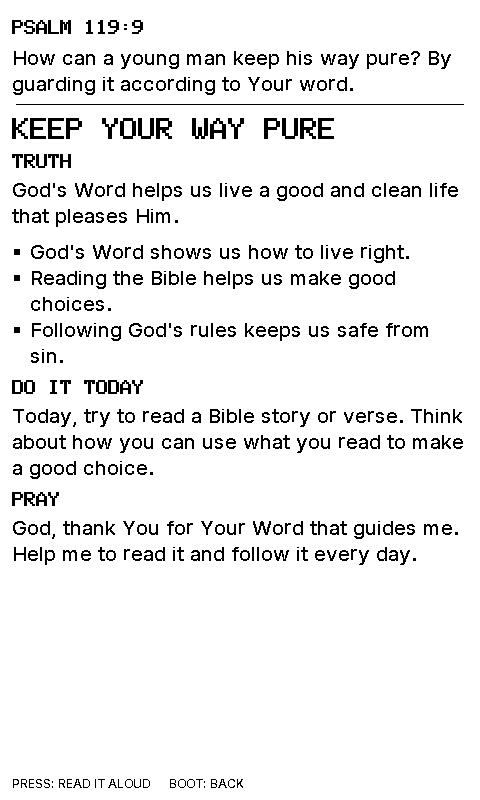
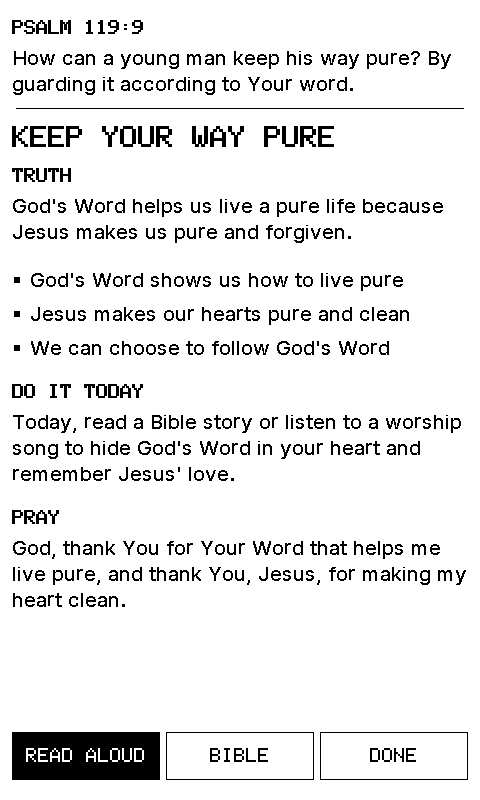
Devotional: roomier layout, gospel-centered brief, READ ALOUD / BIBLE / DONE buttons, launcher Bible row opens it
Also raises the model token limit (thinking tokens count) and logs unparsed replies.

diff --git a/firmware/RetroSports/App.cpp b/firmware/RetroSports/App.cpp
@@ -441,9 +441,11 @@ static bool fetchDevotional(const FetchRequest& req,Devotional& out,int& code){
  http.addHeader("Content-Type","application/json");http.addHeader("Authorization",String("Bearer ")+req.key);
  const std::string body=devotionalRequestBody(ref,verses[ref.verse-1],context);code=http.POST((uint8_t*)body.data(),body.size());
  if(code!=200){http.end();Serial.printf("DEVOTIONAL http=%d\n",code);return false;}
- JsonDocument d;const bool parsed=!deserializeJson(d,http.getString());http.end();
+ const String reply=http.getString();http.end();JsonDocument d;const bool parsed=!deserializeJson(d,reply);
  tm lt{};time_t now=time(nullptr);localtime_r(&now,&lt);
- return parsed&&parseDevotional(d,ref,verses[ref.verse-1],lt.tm_yday,out);
+ const bool ok=parsed&&parseDevotional(d,ref,verses[ref.verse-1],lt.tm_yday,out);
+ if(!ok)Serial.printf("DEVOTIONAL unparsed: %s\n",reply.substring(0,160).c_str());
+ return ok;
 }
 static void networkTask(void*){
  FetchRequest req;
@@ -762,7 +764,7 @@ static void goBack(){
  case Page::Home:goLauncher(LAUNCH_TAB0+ui.tab);break;
  case Page::Settings:goLauncher(LAUNCH_GEAR);break;
  case Page::BibleHome:goLauncher(LAUNCH_BIBLE);break;
- case Page::Devotional:ui.page=Page::BibleHome;ui.selected=2;break;
+ case Page::Devotional:goLauncher(LAUNCH_BIBLE);break;
  case Page::Weather:goLauncher(LAUNCH_WEATHER);break;
  case Page::Update:if(!updateBusy&&!restartAt){ui.page=Page::Settings;ui.selected=6;}break;
  case Page::Launcher:break;
@@ -819,7 +821,7 @@ static void keyAction(const Key& k){
    dirty=true;return;
   }
   else {int count=1;switch(ui.page){case Page::Home:count=HOME_ALL_ROW+(int)ui.recent.size();break;case Page::Games:{count=visibleGames(ui).size()+1;if(!ui.filter.empty()){int d=-1,c=-1;if(ui.standings.league==ui.league)teamGroups(ui.standings,ui.filter,d,c);count+=(d>=0||c>=0)?(d>=0?1:0)+(c>=0?1:0):1;}}break;
-   case Page::Standings:count=ui.standingsAlt>=0?2:1;break;case Page::BibleHome:count=4;break;case Page::Devotional:count=1;break;case Page::Update:count=1;break;case Page::Detail:count=3;break;case Page::Favorites:count=std::max(1,(int)ui.favorites.size());break;case Page::Settings:count=7;break;default:break;}ui.selected=(ui.selected+step+count)%count;
+   case Page::Standings:count=ui.standingsAlt>=0?2:1;break;case Page::BibleHome:count=4;break;case Page::Devotional:count=3;break;case Page::Update:count=1;break;case Page::Detail:count=3;break;case Page::Favorites:count=std::max(1,(int)ui.favorites.size());break;case Page::Settings:count=7;break;default:break;}ui.selected=(ui.selected+step+count)%count;
    if(ui.page==Page::Home&&ui.selected<HOME_TABS&&ui.selected!=ui.tab){ui.tab=ui.selected;buildRecent();} // landing on a tab switches the list (the gear does not)
    if(ui.page==Page::Games&&!ui.filter.empty()&&ui.selected==0)ui.selected=step>0?std::min(1,count-1):count-1; // team pages skip the phantom header slot
   }
@@ -859,12 +861,16 @@ static void keyAction(const Key& k){
  case Page::Wifi:if(!ui.ap)startAP();break;
  case Page::Launcher:
   if(ui.selected==LAUNCH_WEATHER){ui.page=Page::Weather;if(!ui.weather.valid)nextWeather=0;}
-  else if(ui.selected==LAUNCH_BIBLE){ui.page=Page::BibleHome;ui.selected=0;}
+  else if(ui.selected==LAUNCH_BIBLE){ui.page=Page::Devotional;ui.selected=0;if(devotionalStale())nextDevotional=0;} // the Bible row opens today's devotional; BIBLE on that page opens the reader home
   else if(ui.selected==LAUNCH_GEAR){ui.page=Page::Settings;ui.selected=0;}
   else{ui.tab=ui.selected-LAUNCH_TAB0;ui.listPage=0;goHome();if(ui.tab==0){if(!ui.recent.empty())ui.selected=HOME_ALL_ROW;}else ui.selected=HOME_NEXT;} // straight into the list
   break;
  case Page::BibleHome:if(ui.selected==0)openBible(BibleRef{});else if(ui.selected==1)openBible(ui.votd);else if(ui.selected==2){ui.page=Page::Devotional;ui.selected=0;if(devotionalStale())nextDevotional=0;}else{ui.bible.pick=ui.bible.book-1;ui.page=Page::BibleBooks;ui.selected=0;}break;
- case Page::Devotional:if(ui.devotional.valid&&!voiceKey.isEmpty()&&!audio::playing()){VoiceJob job{};snprintf(job.say,sizeof(job.say),"%s",devotionalSpeech(ui.devotional).c_str());snprintf(job.key,sizeof(job.key),"%s",voiceKey.c_str());if(xQueueSend(voiceQueue,&job,0)==pdTRUE)Serial.println("DEVOTIONAL reading aloud");}break;
+ case Page::Devotional:
+  if(ui.selected==0){if(ui.devotional.valid&&!voiceKey.isEmpty()&&!audio::playing()){VoiceJob job{};snprintf(job.say,sizeof(job.say),"%s",devotionalSpeech(ui.devotional).c_str());snprintf(job.key,sizeof(job.key),"%s",voiceKey.c_str());if(xQueueSend(voiceQueue,&job,0)==pdTRUE)Serial.println("DEVOTIONAL reading aloud");}}
+  else if(ui.selected==1){ui.page=Page::BibleHome;ui.selected=0;}
+  else goLauncher(LAUNCH_BIBLE);
+  break;
  case Page::Bible:ui.bible.pick=ui.bible.book-1;ui.bible.pickBook=ui.bible.book;ui.page=Page::BibleBooks;break;
  case Page::BibleBooks:ui.bible.pickBook=ui.bible.pick+1;ui.bible.pick=ui.bible.pickBook==ui.bible.book?ui.bible.chapter-1:0;ui.page=Page::BibleChapters;break;
  case Page::BibleChapters:{BibleRef r;r.book=ui.bible.pickBook;r.chapter=ui.bible.pick+1;openBible(r);break;}

diff --git a/firmware/RetroSports/Render.h b/firmware/RetroSports/Render.h
@@ -361,12 +361,14 @@ class Renderer {
    else{
     bold(12,20,bibleRefLabel(d.ref),2);int y=46;
     for(const auto& line:wrapWidth(d.verse,readWidth,456,4)){read(12,y,line);y+=READ_LINE;}
-    y+=6;c.drawFastHLine(16,y,448,0);y+=14;bold(12,y,upperText(d.title),3,0,25);y+=36;
-    auto section=[&](const char* head,const std::string& body,int maxLines){bold(12,y,head,2);y+=24;for(const auto& line:wrapWidth(body,readWidth,456,maxLines)){read(12,y,line);y+=READ_LINE;}y+=10;};
+    y+=10;c.drawFastHLine(16,y,448,0);y+=18;bold(12,y,upperText(d.title),3,0,25);y+=42;
+    auto section=[&](const char* head,const std::string& body,int maxLines){bold(12,y,head,2);y+=26;for(const auto& line:wrapWidth(body,readWidth,456,maxLines)){read(12,y,line);y+=READ_LINE;}y+=22;};
     section("TRUTH",d.truth,3);
-    for(const auto& p:d.points){c.fillRect(14,y+9,6,6,0);int l=0;for(const auto& line:wrapWidth(p,readWidth,430,2)){read(30,y,line);y+=READ_LINE;l++;}}
-    y+=10;section("DO IT TODAY",d.apply,3);section("PRAY",d.prayer,3);
-    small(12,776,"PRESS: READ IT ALOUD      BOOT: BACK");
+    for(const auto& p:d.points){c.fillRect(14,y+9,6,6,0);for(const auto& line:wrapWidth(p,readWidth,430,2)){read(30,y,line);y+=READ_LINE;}y+=8;}
+    y+=14;section("DO IT TODAY",d.apply,4);section("PRAY",d.prayer,4); // the page has room: four lines each before the buttons
+    // Three buttons along the bottom: read it aloud, open the Bible, done.
+    static const char* labels[]={"READ ALOUD","BIBLE","DONE"};
+    for(int i=0;i<3;i++){const int x=12+i*154,w=i==2?148:148;const bool sel=u.selected==i;c.fillRect(x,732,w,48,sel?0:1);c.drawRect(x,732,w,48,0);const int tw=int(strlen(labels[i]))*12;text(x+(w-tw)/2,748,labels[i],2,sel?1:0);}
    }
   }else if(u.page==Page::Update){ // over-the-air update: a status line, then what to do
    center(150,"UPDATE",4);{int y=300;for(const auto& line:wrapLines(u.updateNote,30,5)){center(y,line,2);y+=36;}}
@@ -395,7 +397,7 @@ class Renderer {
     const bool sel=u.selected==LAUNCH_BIBLE;const int ink=sel?1:0;if(sel)c.fillRect(12,54,456,36,0);
     std::string ref=u.votd.valid()?bibleRefLabel(u.votd):"BIBLE";
     if(ref.size()>15&&u.votd.valid())ref=upperText(bibleBooks[u.votd.book-1].abbr)+" "+std::to_string(u.votd.chapter)+":"+std::to_string(u.votd.verse); // long book names use the abbreviation here
-    text(20,60,ref,3,ink,15);text(468-8-12*12,64,"OPEN BIBLE >",2,ink);
+    text(20,60,ref,3,ink,15);text(468-8-12*12,64,"DEVOTIONAL >",2,ink);
     if(u.votd.valid()){int y=98;for(const auto& line:launcherVerseLines(u)){read(12,y+1,line);y+=READ_LINE;}}
     else read(12,98,"Bible files missing: run tools/upload_bible.sh");
    }

diff --git a/firmware/RetroSports/Devotional.h b/firmware/RetroSports/Devotional.h
@@ -17,10 +17,12 @@ inline std::string devotionalSystemPrompt(){
   "\"points\": [<three short bullets, each at most 55 characters, simple and concrete>], "
   "\"apply\": <one or two short sentences, at most 140 characters, something a kid can actually do today>, "
   "\"prayer\": <one sentence, at most 110 characters, starting with 'God,' or 'Jesus,'>}. "
+  "Keep it gospel-centered, not moralistic: the truth must point to what God has done for us in Jesus - His love, His death and resurrection, His grace and forgiveness - "
+  "so the kid hears first what Jesus did, and only then what we do in response; never make the lesson 'be good so God will like you'. "
   "Plain words a 7-year-old understands, warm and encouraging, no theology jargon, do not quote other Bible verses, no markdown.";
 }
 inline std::string devotionalRequestBody(const BibleRef& ref,const std::string& verse,const std::string& context){
- return "{\"model\":\""+std::string(VOICE_MODEL)+"\",\"response_format\":{\"type\":\"json_object\"},\"max_tokens\":400,\"temperature\":0.7,"
+ return "{\"model\":\""+std::string(VOICE_MODEL)+"\",\"response_format\":{\"type\":\"json_object\"},\"max_tokens\":1500,\"temperature\":0.7," // room for the model's thinking tokens, which count against the limit
   "\"messages\":[{\"role\":\"system\",\"content\":\""+jsonEscape(devotionalSystemPrompt())+"\"},"
   "{\"role\":\"user\",\"content\":\""+jsonEscape("Verse of the day: "+bibleRefLabel(ref,false)+" - "+verse+"\nContext: "+context)+"\"}]}";
 }

diff --git a/tests/core_test.cpp b/tests/core_test.cpp
@@ -151,7 +151,7 @@ int main(){
   // Devotional: the model reply, the NVS roundtrip, the spoken text.
   {std::ifstream df("tests/fixtures/devotional.json");std::string fixture((std::istreambuf_iterator<char>(df)),std::istreambuf_iterator<char>());assert(!fixture.empty());
    JsonDocument wrap;wrap["choices"][0]["message"]["content"]=fixture;Devotional d;BibleRef ref{19,119,9};
-   assert(parseDevotional(wrap,ref,"How can a young man keep his way pure? By guarding it according to Your word.",272,d)&&d.valid&&d.points.size()==3&&d.title=="Keep Your Way Pure"&&d.day==272);
+   assert(parseDevotional(wrap,ref,"How can a young man keep his way pure? By guarding it according to Your word.",272,d)&&d.valid&&d.points.size()==3&&d.day==272);
    Devotional back;assert(decodeDevotional(encodeDevotional(d),back)&&back.valid&&back.ref.verse==9&&back.points[2]==d.points[2]&&back.prayer==d.prayer);
    const std::string speech=devotionalSpeech(d);assert(speech.find("Keep Your Way Pure")!=std::string::npos&&speech.find("Psalm 119:9 says")!=std::string::npos&&speech.find("Let's pray.")!=std::string::npos);
    assert(devotionalRequestBody(ref,d.verse,"context").find("Verse of the day: Psalm 119:9")!=std::string::npos);assert(!decodeDevotional("",back));

diff --git a/README.md b/README.md
@@ -32,11 +32,11 @@ At 11:00 pm local time the board shows the verse of the day under an `ASLEEP - P
 
 ## Launcher
 
-The first screen is a launcher with three doors: the weather strip, the Bible row — today's reference on the left, `OPEN BIBLE >` on the right, the verse beneath — and the score tab strip (ALL/MLB/NFL/NBA/CFB plus the settings gear), which is selected by default — moving along the tabs switches the list beneath, and pressing a tab opens that scoreboard with the list already entered with the latest games of every league beneath it, grouped by league with dividers, as many as fit. Rocker up/down moves between the two bars and press opens the one selected: BIBLE goes to the Bible home (`CONTINUE <book chapter> page/pages`, `VERSE OF THE DAY`, `BOOKS`), SPORTS SCORES goes to the scoreboard home with its ALL/MLB/NFL/NBA/CFB tabs and the settings gear. BOOT from either home returns to the launcher. The board boots and wakes to the launcher, and a refresh wake fetches all four feeds so the launcher's scores are current.
+The first screen is a launcher with three doors: the weather strip, the Bible row — today's reference on the left, `DEVOTIONAL >` on the right, the verse beneath — and the score tab strip (ALL/MLB/NFL/NBA/CFB plus the settings gear), which is selected by default — moving along the tabs switches the list beneath, and pressing a tab opens that scoreboard with the list already entered with the latest games of every league beneath it, grouped by league with dividers, as many as fit. Rocker up/down moves between the two bars and press opens the one selected: BIBLE goes to the Bible home (`CONTINUE <book chapter> page/pages`, `VERSE OF THE DAY`, `BOOKS`), SPORTS SCORES goes to the scoreboard home with its ALL/MLB/NFL/NBA/CFB tabs and the settings gear. BOOT from either home returns to the launcher. The board boots and wakes to the launcher, and a refresh wake fetches all four feeds so the launcher's scores are current.
 
 ## Daily devotional
 
-Alongside the verse of the day the board writes a one-screen devotional for kids aged 7–13: the verse up top, a **title**, one **TRUTH** sentence, three short bullets, a **DO IT TODAY** action, and a one-line **PRAY**. It is written once a day by the model (the OpenRouter key, a fraction of a cent) at the 6:30 am wake — or the first time the day's verse is seen — from the verse and a dozen neighbouring verses, under a brief that fixes the structure, the reading level and the lengths; the result is cached in NVS so it reads offline and survives sleeps. **Bible home → TODAY'S DEVOTIONAL** opens it; pressing the rocker on the page reads it aloud through the speaker, BOOT goes back. Voice: "what's today's devotional" opens it, "read today's devotional" opens and reads it. Without a voice key the page explains it needs one. `device_console.py devotional` writes a fresh one over USB; the sample used in the previews is `tests/fixtures/devotional.json`.
+Alongside the verse of the day the board writes a one-screen devotional for kids aged 7–13: the verse up top, a **title**, one **TRUTH** sentence, three short bullets, a **DO IT TODAY** action, and a one-line **PRAY**. It is written once a day by the model (the OpenRouter key, a fraction of a cent) at the 6:30 am wake — or the first time the day's verse is seen — from the verse and a dozen neighbouring verses, under a brief that fixes the structure, the reading level and the lengths; the result is cached in NVS so it reads offline and survives sleeps. The launcher's Bible row (`DEVOTIONAL >`) opens it, as does **Bible home → TODAY'S DEVOTIONAL**; three buttons along the bottom — **READ ALOUD** (through the speaker), **BIBLE** (the reader home: continue, verse of the day, books) and **DONE** (back to the launcher) — and BOOT is the same as DONE. The brief is gospel-centered: the truth points to what God has done in Jesus before anything we do in response. Voice: "what's today's devotional" opens it, "read today's devotional" opens and reads it. Without a voice key the page explains it needs one. `device_console.py devotional` writes a fresh one over USB; the sample used in the previews is `tests/fixtures/devotional.json`.
 
 ## Weather
 

diff --git a/VALIDATION.md b/VALIDATION.md
@@ -151,6 +151,10 @@ The user heard pauses and clipped words. Cause: speech was written to I2S straig
 
 The user asked for a daily devotional on the verse of the day, one screen, simple and accessible for ages 7–13, verse on top with truth and application, broken up with headers and bullets, with a read-aloud option. A sample was generated first with the brief that `Devotional.h` carries (Psalm 119:9: "Keep Your Way Pure", one truth, three bullets, a doable action, a one-line prayer) and the user approved the shape; it is `tests/fixtures/devotional.json` and the preview `devotional-demo`. The firmware writes the devotional on the network task with the voice key, parses the model's JSON with length caps, caches it in NVS keyed by day and verse, and refreshes it when the day or verse changes — on the 6:30 wake it is counted into that wake's pending fetches so the board stays up for it. The page lays the verse out in the reading font over a rule, then the title at pixel size 3 and the sections with bold headers and square bullets; press reads `devotionalSpeech` through the TTS path, and the voice action `open_devotional` (with `read`) does the same by voice. Host tests cover parsing the fixture, the NVS roundtrip, the spoken text and the voice reply.
 
+## Devotional, second pass — v1.4.0
+
+The user's tweaks: more vertical space between the elements (section gaps 10 -> 22 px, title margins 14/36 -> 18/42, 8 px between bullets); a gospel-centered brief rather than moralism (the prompt now requires the truth to point to what God has done in Jesus before any response, and forbids "be good so God will like you"); visible buttons — READ ALOUD, BIBLE, DONE along the bottom, with BOOT the same as DONE; and the launcher's Bible row now opens the devotional (`DEVOTIONAL >`), the BIBLE button on that page leading to the reader home. The sample fixture was regenerated under the new brief. The first device attempts under it failed to parse: Gemini 2.5 Flash's thinking tokens count against `max_tokens`, so 400 cut the JSON off mid-string (seen on the host with the firmware's exact request body); the limit is now 1500 and unparsed replies are logged. The device then wrote "Clean Heart, Clean Path".
+
 ## Over-the-air updates — v1.4.0
 
 The user wants to hand devices to friends and still push updates. The partition table already had two 4 MB app slots and `otadata`, and the SDK build has `CONFIG_APP_ROLLBACK_ENABLE`. The updater (`fetchUpdate`, run on the network task) follows GitHub's redirect from `releases/latest/download/version.json` to the asset host, compares the version with `FIRMWARE_VERSION`, streams `RetroSports.bin` through `Update` into the inactive slot, and restarts three seconds after the page reports it. A new build is marked valid once Wi-Fi and the clock are up (or after two minutes), and the board refuses to deep-sleep before that, because a wake is a reboot and an unverified build would be rolled back. The check runs at the 6:30 am wake (counted into that wake's pending fetches) and from a seventh Settings row. github.com chains to the USERTrust ECC root, added to the bundle from the macOS system roots; the asset host chains to ISRG Root X1. `tools/release.sh` publishes a release in one command.
